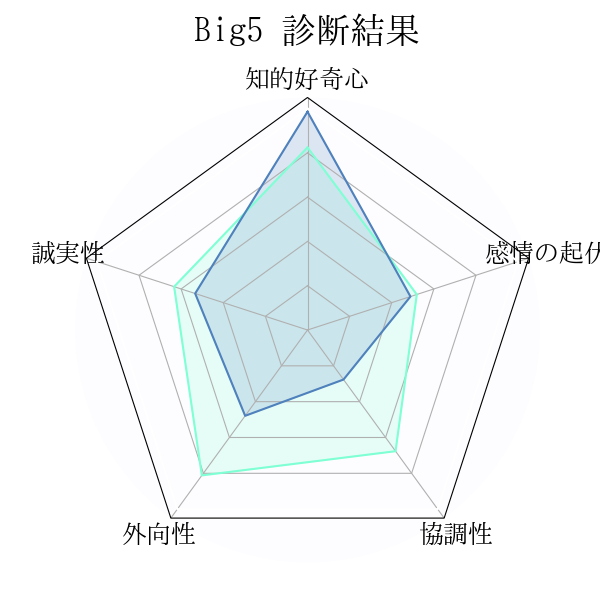
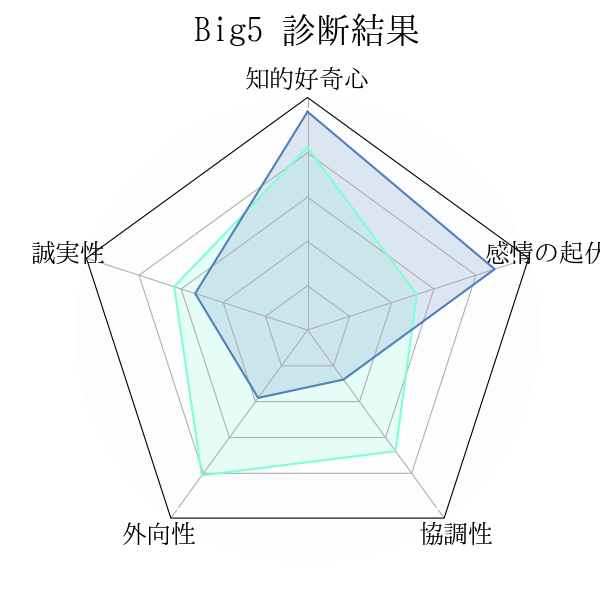
Redesign company_result page

Changed region(s): [[0.51, 0.18, 0.84, 0.63], [0.33, 0.51, 0.57, 0.69]]

diff --git a/templates/company_result.html b/templates/company_result.html
@@ -1,36 +1,96 @@
 {% extends "layout.html" %}
 {% block content %}
-<div id="company-result">
-    <div class="container">
-        <div class="row">
-            <div class="col-md-12 col-md-offset-1">
-                <h1>おすすめ企業リスト</h1>
-            </div>
+
+
+<!--class="site-section bg-image gradient-1"-->
+<div  style="background-image: url('/static/images/workers_background.jpg')">
+  <div class="container">
+    <div class="row justify-content-center">
+      <div class="col-md-7 mx-auto text-center align-self-center">
+        <h1 class="font-weight-bold mb-0 text-white">Workers</h1>
+      </div>
+    </div>
+
+  </div>
+</div>
+
+
+<div class="site-section" id="start">
+  <div class="container">
+    <div class="row mb-4">
+      <div class="col-md-8">
+        <h2 class="heading-21921">マッチ度ランキング</h2>
+        <p class="lead">あなたの特徴は理解した。これがおすすめだ！</p>
+      </div>
+        <div class="col-md-3">
+        <div class="bg-light p-4">
+        <center>
+          <button class="btn btn-primary" data-toggle="modal" data-target="#exampleModalCenter"> 　　　Template　　　 </button>
+        </center>
+        </div>
+      </div>
+        <div class="col-md-1">
         </div>
     </div>
+  </div>
+
     {% for company in companies %}
-    <div class="container">
-        <div class="row">
-            <div class="col-md-4">企業名</div>
-            <div class="col-md-4">{{ company['company'] }}</div>
-        </div>
-        <div class="row">
-            <div class="col-md-4">職業</div>
-            <div class="col-md-4">{{ company['profession'] }}</div>
-        </div>
-        <div class="row">
-            <div class="col-md-4">オススメ度</div>
-            <div class="col-md-4">{{ company['similarity'] }}</div>
-        </div>
-        <div class="row">
-            <div class="col-md-12">
-                <img src="/static/images/{{ company['id'] }}.png" alt="{{ company['id'] }}" width="400">
-            </div>
-        </div>
-        <div class="row">
-            <div class="col-md-12">------------------------------------------------------------------------</div>
+  <div class="row mb-4">
+    <div class="col-md-2">
+    </div>
+    <div class="col-md-5">
+      <div class="bg-light p-4">
+          <a href = "https://www.ibm.com/jp-ja" style="font-size:20pt;">{{ company['company'] }}/{{ company['profession'] }}</a>
+          <p>マッチ度：<b>{{ company['similarity'] }}</b>%</p>
+          <p>hogehoge<br><br><br><br></p>
+      </div>
+    </div>
+    <div class="col-md-3">
+        <div class="bg-light p-4">
+          <center>
+          <img src="/static/images/{{ company['id'] }}.png" width="220">
+        </center>
         </div>
     </div>
+    <div class="col-md-2">
+    </div>
+  </div>
     {% endfor %}
 </div>
+
+
+
+
+    <div class="site-section bg-light">
+      <div class="container">
+        <div class="row justify-content-center text-center">
+          <div class="col-md-7">
+            <h1> Walkers </h1>
+            <p>
+            <!-- Link back to Colorlib can't be removed. Template is licensed under CC BY 3.0. -->
+        Copyright &copy;<script>document.write(new Date().getFullYear());</script> All rights reserved | This is made with <i class="icon-heart text-danger" aria-hidden="true"></i> by Walkers
+            <!-- Link back to Colorlib can't be removed. Template is licensed under CC BY 3.0. -->
+            </p>
+          </div>
+        </div>
+      </div>
+    </div>
+
+
+<div class="modal fade" id="exampleModalCenter" tabindex="-1" role="dialog" aria-labelledby="exampleModalCenterTitle" aria-hidden="true">
+  <div class="modal-dialog modal-dialog-centered" role="document">
+    <div class="modal-content rounded-0">
+      <div class="modal-header">
+        <h5 class="modal-title" id="exampleModalCenterTitle">Template</h5>
+        <button type="button" class="close" data-dismiss="modal" aria-label="Close">
+          <span aria-hidden="true"><span class="icon-close2"></span></span>
+        </button>
+      </div>
+      <div class="modal-body">
+        <img src="/static/images/slider_1.jpg" width="450">
+      </div>
+    </div>
+  </div>
+</div>
+
 {% endblock %}

diff --git a/company_recommender.py b/company_recommender.py
@@ -1,5 +1,6 @@
 import json
 from typing import List
+import numpy as np
 
 
 def load_json(filepath):
@@ -28,11 +29,19 @@ def calc_similarity(target_dic: dict, employee_dic: dict):
 
     keys = list(target_dic.keys())
 
-    ibm_profession = 0
-    for key in keys:
-        ibm_profession += (abs(target_dic[key]-employee_dic[key]))
+    # ibm_profession = 0
+    # for key in keys:
+    #     ibm_profession += (abs(target_dic[key]-employee_dic[key]))
+    #
+    # precision_profession = (1/(1+ibm_profession))*100
 
-    precision_profession = (1/(1+ibm_profession))*100
+    v1 = []
+    v2 = []
+    for key in keys:
+        v1.append(target_dic[key])
+        v2.append(employee_dic[key])
+
+    precision_profession = np.dot(v1, v2) / (np.linalg.norm(v1) * np.linalg.norm(v2))
 
     return precision_profession
 
@@ -64,16 +73,16 @@ def get_recommended_companies(target_dic):
 
 
 if __name__ == '__main__':
-    # target_dic = {'ope': 0.8243266441684023, 'con': 0.633414931260427, 'ext': 0.8117213140033163, 'agr': 0.676611520481196, 'emo': 0.5190227982392853}
+    target_dic = {'ope': 0.8243266441684023, 'con': 0.633414931260427, 'ext': 0.8117213140033163, 'agr': 0.676611520481196, 'emo': 0.5190227982392853}
     #
-    # employee_dic1 = {'ope': 0.8143266441684023, 'con': 0.623414931260427, 'ext': 0.8017213140033163, 'agr': 0.66611520481196, 'emo': 0.5090227982392853}
+    employee_dic1 = {'ope': 0.8143266441684023, 'con': 0.623414931260427, 'ext': 0.8017213140033163, 'agr': 0.66611520481196, 'emo': 0.5090227982392853}
     #
     # employee_dic2 = {'ope': 0.5555555555555555, 'con': 0.633414931260427, 'ext': 0.9999999999, 'agr': 0.99999999999, 'emo': 0.1111111111111}
     #
     # employee_dic3 = {'ope': 0.900000000000003, 'con': 0.633414931260427, 'ext': 0.8117213140033163, 'agr': 0.676611520481196, 'emo': 0.90000000000}
 
-    #ibm_its = calc_similarity(target_dic, employee_dic1)
+    ibm_its = calc_similarity(target_dic, employee_dic1)
     #ibm_consuluting = calc_similarity(target_dic, employee_dic2)
     #ibm_designer = calc_similarity(target_dic, employee_dic3)
 
-    get_recommended_companies(target_dic)
+    # get_recommended_companies(target_dic)

diff --git a/app.py b/app.py
@@ -6,7 +6,7 @@ from company_recommender import get_recommended_companies, print_json_list
 from utils import write_to_json, load_json
 
 app = Flask(__name__)
-
+app.config['SEND_FILE_MAX_AGE_DEFAULT'] = 0
 
 dummy_dic0 = {
     "ope": 0,
@@ -54,7 +54,7 @@ def personal_result():
 
 @app.route('/company_result')
 def company_result():
-    title = 'おすすめ企業リスト | Workers'
+    title = 'マッチ度ランキング | Workers'
 
     # 個人のデータを取得
     target_dic = load_json('json/target.json')
@@ -71,7 +71,17 @@ def company_result():
     return render_template('company_result.html', title=title, companies=companies)
 
 
+# No caching at all for API endpoints.
+@app.after_request
+def add_header(response):
+    # response.cache_control.no_store = True
+    response.headers['Cache-Control'] = 'no-store, no-cache, must-revalidate, post-check=0, pre-check=0, max-age=0'
+    response.headers['Pragma'] = 'no-cache'
+    response.headers['Expires'] = '-1'
+    return response
+
+
 if __name__ == '__main__':
     app.debug = True  # デバッグモードを有効化
-    app.run(host='localhost', port='8080')  # どこからでもアクセス可能に
+    app.run(host='localhost')  # どこからでもアクセス可能に
 
